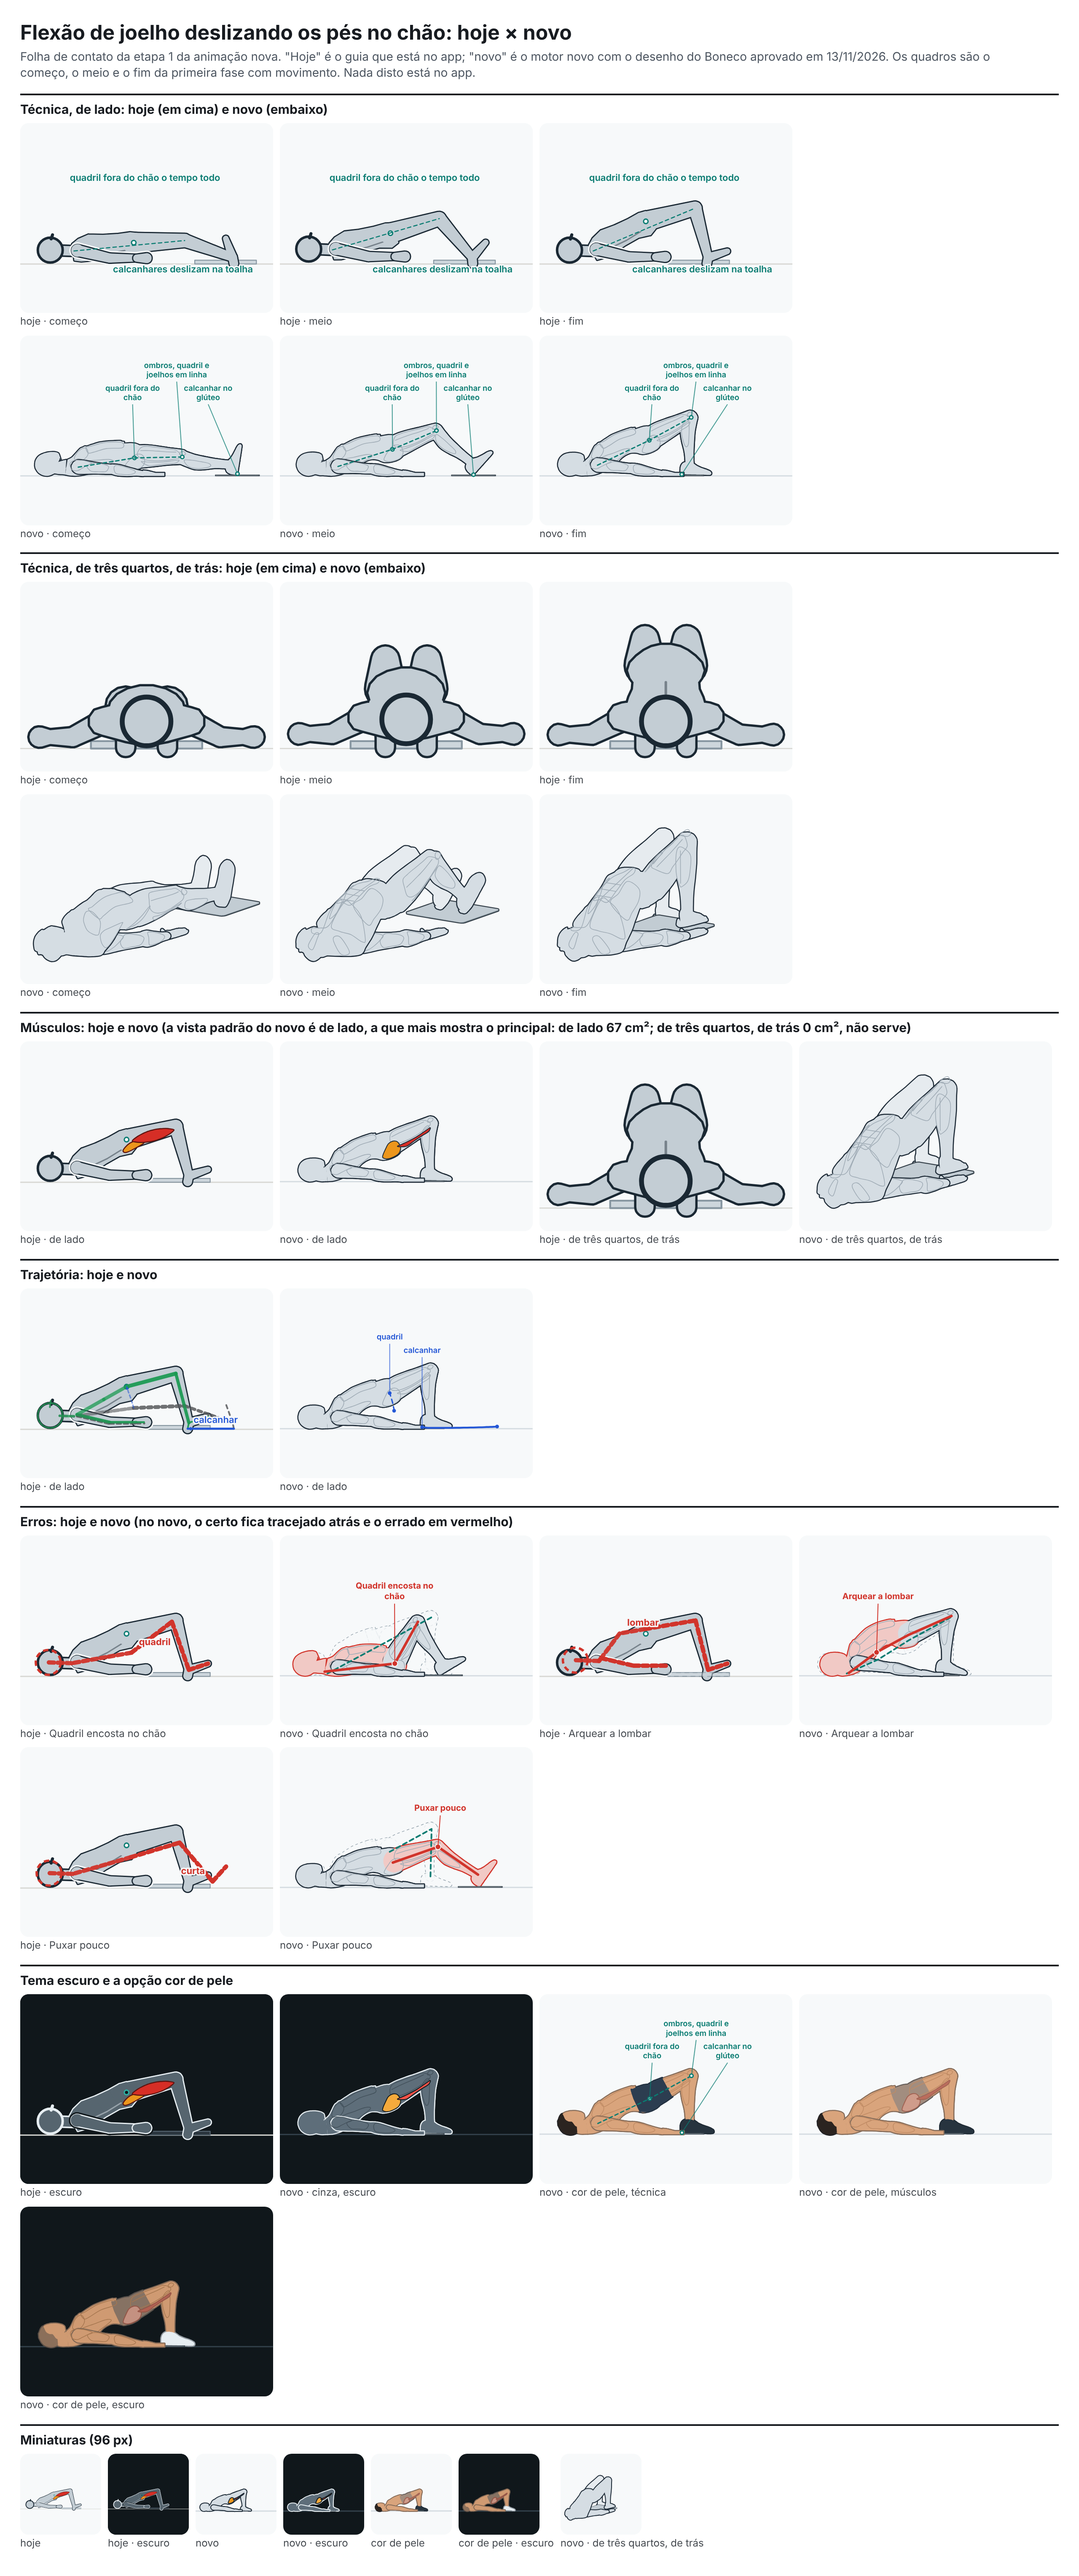
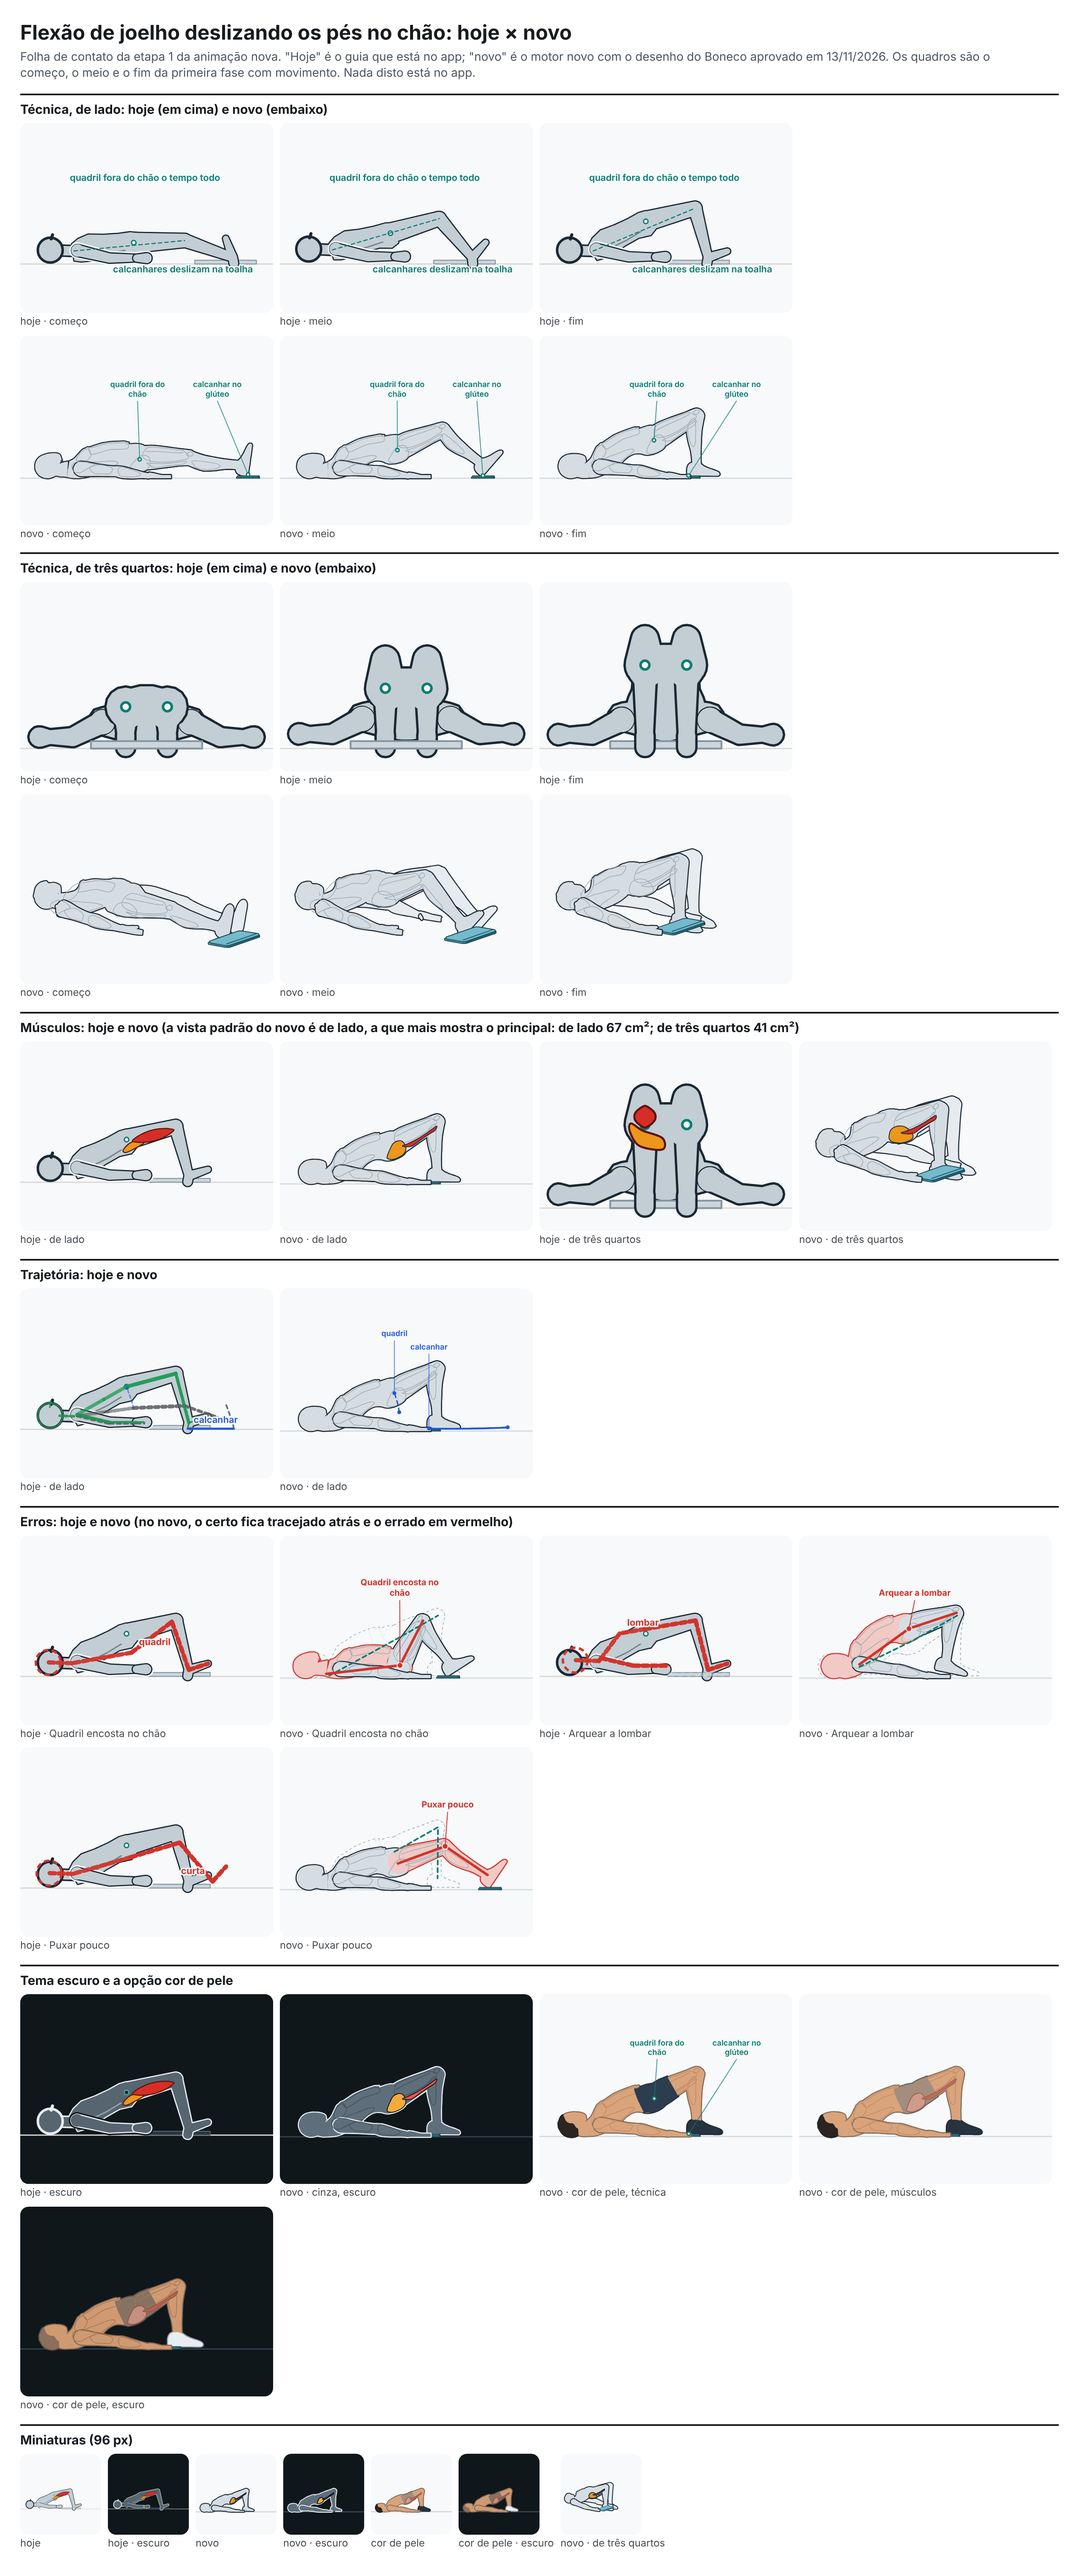
Correção: flexão de joelho deslizante vista de três quartos, com dois rótulos, o erro da lombar legível e a toalha dobrada em quatro
Claude-Session: https://claude.ai/code/session_01YRzts7dTzBdkrmTDEnq8bW

diff --git a/src/engine/novo/pecas-de-cena/toalha.ts b/src/engine/novo/pecas-de-cena/toalha.ts
@@ -1,21 +1,26 @@
-// A toalha de mão dobrada ao meio, sob os dois calcanhares, que desliza com eles no chão liso (flexão de joelho
-// deslizante). As medidas vêm de ../dados/objetos/toalha.json. Ela anda com os calcanhares: fica centrada debaixo deles.
+// A toalha de mão dobrada em quatro no comprimento, sob os dois calcanhares, que desliza com eles no chão liso
+// (flexão de joelho deslizante). As medidas vêm de ../dados/objetos/toalha.json. Ela anda com os calcanhares: fica
+// centrada debaixo deles. Dobrada em quatro, fica com a largura inteira (40,6 cm, os dois calcanhares cabem) e um
+// quarto do comprimento na direção em que desliza, com quatro camadas de felpa: de lado, ela tem espessura visível.
 import type { Prim } from '../desenho';
 import type { PecaPropria } from '../pecas';
 import { retArred } from '../realista/base.mjs';
 import { obj } from '../tabelas';
 import type { V3 } from '../vec';
 
-/** A cor da toalha (felpa clara, em quatro tons, do traço ao mais claro). */
-const FELPA = ['#55636B', '#8E9DA6', '#C9D3D9', '#36414A'];
+/** A cor da toalha: felpa azul-petróleo, em quatro tons (do traço ao mais claro), que se separa do chão cinza. */
+const FELPA = ['#1F5B6B', '#3C8BA0', '#7CC0D2', '#123C47'];
+/** Quantas camadas a toalha dobrada tem. */
+const CAMADAS = 4;
 
-/** Altura do tampo da toalha dobrada (duas camadas), em cm. */
-export const alturaDaToalha = () => 2 * obj('toalha', 'esp');
+/** Altura do tampo da toalha dobrada, em cm. */
+export const alturaDaToalha = () => CAMADAS * obj('toalha', 'esp');
 
 /** A toalha com o centro em (x, z) no chão: os volumes da conferência e a peça desenhada. */
 export function toalha(x: number, z: number): { prims: Prim[]; peca: PecaPropria } {
   const larg = obj('toalha', 'larg'),
-    comp = obj('toalha', 'comp') / 2,
+    comp = obj('toalha', 'comp') / CAMADAS,
+    e = obj('toalha', 'esp'),
     h = alturaDaToalha();
   const o: V3 = [x, h / 2, z];
   return {
@@ -26,9 +31,11 @@ export function toalha(x: number, z: number): { prims: Prim[]; peca: PecaPropria
       nome: 'toalha',
       fixa: [x, z],
       desenhar(C) {
-        // a dobra fica do lado da cabeça; um friso marca a barra da toalha do lado dos pés
-        C.prisma(retArred(larg, comp, 2.5, 3), [x, 0, z], [1, 0, 0], [0, 0, 1], [0, h, 0], FELPA);
-        C.linha([x - larg / 2 + 1.5, h + 0.05, z + comp / 2 - 3], [x + larg / 2 - 1.5, h + 0.05, z + comp / 2 - 3], FELPA[0], 0.5);
+        // as dobras: a metade de baixo (duas camadas) um pouco mais longa que a de cima, com a borda arredondada do
+        // tecido; um friso marca a barra na camada de cima
+        C.prisma(retArred(larg, comp, 2.5, 4), [x, 0, z], [1, 0, 0], [0, 0, 1], [0, 2 * e, 0], FELPA);
+        C.prisma(retArred(larg - 1, comp - 1.2, 2.5, 4), [x, 2 * e, z + 0.3], [1, 0, 0], [0, 0, 1], [0, 2 * e, 0], FELPA);
+        C.linha([x - larg / 2 + 2, h + 0.05, z + comp / 2 - 3], [x + larg / 2 - 2, h + 0.05, z + comp / 2 - 3], FELPA[0], 0.6);
       },
     },
   };

diff --git a/src/engine/novo/exercicios/flexao-joelho-deslizante.ts b/src/engine/novo/exercicios/flexao-joelho-deslizante.ts
@@ -42,9 +42,10 @@ function calibrar(corpo: Corpo) {
 function quadro(corpo: Corpo, u: number, erro?: string): Quadro {
   const c = calibrar(corpo);
   const v = erro === 'curta' ? u * f('erro.curta.fracao') : u;
-  // no erro da lombar, as costas ficam como no certo e a bacia gira o que a lombar arqueia: a barriga sobe
+  // no erro da lombar, a bacia fica na inclinação do certo e a lombar arqueia: as costas inclinam mais, a bacia sobe
+  // acima da linha ombro–joelho e a barriga vai para cima (o quadril estende para o calcanhar ficar na toalha)
   const lombar = erro === 'lombar' ? f('erro.lombar.lombar') * u : 0;
-  const frente = (erro === 'quadril' ? mix(c.ini, c.caido, u) : mix(c.ini, c.fim, v)) - lombar * 0.5;
+  const frente = erro === 'quadril' ? mix(c.ini, c.caido, u) : mix(c.ini, c.fim, v);
   const p = ponteDeCostas(corpo, opcoes(frente, mix(f('joelho.inicio'), f('joelho.fim'), v), lombar));
   const t = toalha(0, p.calcanhares[2]);
   return {
@@ -59,7 +60,7 @@ function quadro(corpo: Corpo, u: number, erro?: string): Quadro {
 
 export const flexaoJoelhoDeslizante: Exercicio = {
   ficha: F,
-  vistas: ['lateral', 'quinaTras'],
+  vistas: ['lateral', 'quina'],
   quadro,
   // posteriores da coxa (principal) e glúteo (secundário), como a biblioteca; a panturrilha fica fora (ficha da técnica)
   papeis: { posteriores: 'p', gluteo: 's' },

diff --git a/docs/revisoes/animacao-nova/lote-6/flexao-joelho-deslizante.md b/docs/revisoes/animacao-nova/lote-6/flexao-joelho-deslizante.md
@@ -6,7 +6,7 @@ De 15/11/2026. Primeira animação da família das flexões de joelho deitado. *
 - Ficha de movimento: `src/engine/novo/dados/movimentos/flexao-joelho-deslizante.json`.
 - Animação: `src/engine/novo/exercicios/flexao-joelho-deslizante.ts`, sobre o núcleo da família (`exercicios/flexao-joelho.ts`: `ponteDeCostas`, que a flexão na suspensão vai usar com o calcanhar no ar, preso na fita).
 - Regras medidas: `src/engine/novo/regras/flexao-joelho.ts`.
-- Peça nova: a toalha de mão dobrada ao meio (`pecas-de-cena/toalha.ts`), com as medidas em `dados/objetos/toalha.json` (16 × 30 pol, Zogics; a espessura é provisória).
+- Peça nova: a toalha de mão dobrada em quatro no comprimento (`pecas-de-cena/toalha.ts`), com as medidas em `dados/objetos/toalha.json` (16 × 30 pol, Zogics; a espessura de 0,5 cm por camada é provisória). Fica com 40,6 × 19 cm e 2 cm de altura, em azul-petróleo, para se separar do chão.
 - Folha ao lado da de hoje: `../prototipos/folha-flexao-joelho-deslizante.png`. Quadros grandes: `../quadros/flexao-joelho-deslizante.png`.
 
 ## Como a pose é montada
@@ -26,33 +26,36 @@ Deitado de costas, a cabeça para −z. A cada quadro: (1) a bacia inclina o que
 | Pé em ângulo reto com a canela (correção de 04/11) | consenso | dorsiflexão de 0° no ciclo inteiro: o pé apoia no calcanhar, com a ponta para cima | sim |
 | Puxada em ~1 s; volta em ~2–3 s | consenso | 1,2 s e 2,5 s, com 0,5 s parado no início e 0,6 s no fim | sim |
 
-Conferência automática: **0 falha, 2 avisos**. Amplitudes: joelho 120° (ok); quadril de 8,2° de extensão a 9,1° de flexão; cotovelo 19°; elevação do braço 32° (é o tronco que inclina, não o braço que sobe); ponto mais baixo do corpo −0,2 cm; ritmo 12,5% (ok). Os avisos:
+Conferência automática: **0 falha, 1 aviso**. Amplitudes: joelho 120° (ok); quadril de 8,2° de extensão a 9,1° de flexão; cotovelo 19°; elevação do braço 32° (é o tronco que inclina, não o braço que sobe); ponto mais baixo do corpo −0,2 cm; ritmo 12,5% (ok). Os avisos:
 
 1. Provisórios: `joelho.fim` (120°), `quadril.folgaNoInicio` (5 cm), `ombro.z`, `maos.abaixoDoOmbro`, `maos.paraFora`. Só os dois primeiros mudam a técnica; a ficha não dá número para eles.
-2. Músculos: de três quartos, de trás, o principal (posteriores) não aparece (0 cm²): a vista padrão do modo Músculos é a de lado (67 cm²).
+A vista de três quartos (`quina`) mostra o principal (41 cm²); a de lado é a padrão do modo Músculos (67 cm²).
 
 ## Erros
 
 | Erro (texto do app) | O que o boneco faz (medido) |
 |---|---|
 | Quadril encosta no chão | enquanto os calcanhares vêm, a bacia desce até o glúteo ficar a 0,3 cm do chão; no fim, ombro–quadril–joelho fazem 123° (177° no certo) |
-| Arquear a lombar | a lombar arqueia 25° e a bacia sobe 4 cm a mais que no certo (centro a 34,9 cm); a barriga sobe. A linha ombro–quadril–joelho, medida nos centros, ainda dá 175°: o erro se vê na curva das costas, não na linha |
+| Arquear a lombar | a lombar arqueia 15° com a bacia na inclinação do certo: a bacia sobe 9,5 cm a mais que no certo (centro a 40,7 cm) e sai da linha ombro–joelho (ombro–quadril–joelho a 163°, 177° no certo); a linha do erro passa por ombro, bacia e joelho, e a do certo, tracejada, fica reta |
 | Puxar pouco | o joelho para a 54° (120° no certo); o calcanhar fica 73 cm à frente do quadril |
 
 ## Correções já feitas que esta animação respeita (`correcoes-ja-feitas.md`)
 
-- 04/11: "toalha maior e centrada sob o calcanhar; pé em ângulo reto com a canela". Respeitada: a toalha tem a medida de uma toalha de mão (40,6 × 38,1 cm dobrada) e anda centrada sob os calcanhares; o pé fica a 0° de dorsiflexão.
+- 04/11: "toalha maior e centrada sob o calcanhar; pé em ângulo reto com a canela". Respeitada: a toalha tem a medida de uma toalha de mão (40,6 × 19 cm dobrada em quatro) e anda centrada sob os calcanhares; o pé fica a 0° de dorsiflexão.
 - A panturrilha fica fora do realce, como a ficha da técnica decidiu.
 
 ## Músculos e vistas
 
-O realçado bate com o conteúdo (principal: posteriores da coxa; secundário: glúteo). Os posteriores existem no desenho (`dados/musculos.json`, grupo `posteriores`). A vista de lado é a do modo Músculos; a de três quartos, de trás, fica para a Técnica (mostra a toalha e as duas pernas). A vista `quina` (de frente) não foi usada porque a folha ao lado da de hoje não sabe desenhar o guia de hoje nela.
+O realçado bate com o conteúdo (principal: posteriores da coxa; secundário: glúteo). Os posteriores existem no desenho (`dados/musculos.json`, grupo `posteriores`). A vista de lado é a do modo Músculos; a de três quartos (`quina`, como na flexão na bola) fica para a Técnica: mostra a toalha, as duas pernas e o corpo em ponte. Testei também `cima` (o corpo vira uma figura em pé, sem a ponte) e `quinaTras` (o corpo visto pela cabeça).
 
 ## O que não ficou bom
 
-- No fim, o calcanhar fica a uns 18 cm da pele do glúteo. Para chegar mais perto, o joelho teria de dobrar mais de 120° com o quadril estendido.
-- No erro da lombar, a linha ombro–quadril–joelho medida nos centros quase não muda (175°): o que aparece é a curva das costas e a barriga mais alta. Pode não ler como erro na miniatura.
-- O ombro anda 1,7 cm (sobe um pouco quando a bacia inclina): o limite da regra é 2 cm, escolha minha.
-- A toalha, de lado, é só uma linha fina; de três quartos ela aparece, mas sem as dobras do tecido (é uma placa com a borda arredondada e um friso).
-- A rótulo "ombros, quadril e joelhos em linha" aparece já no início, quando o corpo ainda não está em linha (a linha-guia mostra o ângulo); o texto vale para o fim.
-- A espessura da toalha (0,4 cm por camada) é provisória.
+- No fim, o calcanhar fica a uns 18 cm da pele do glúteo (28,5 cm à frente do centro do quadril). Tentei 130° de joelho: o calcanhar chega a 21 cm do centro do quadril, mas a conta da coxa dá um salto de velocidade no joelho (30% do pico, falha de ritmo); voltei a 120°.
+- O ombro anda 1,8 cm (sobe um pouco quando a bacia inclina): o limite da regra é 2 cm, escolha minha.
+
+## Correção de 15/11/2026 (pedido de quem integra)
+
+- Segunda vista: `quinaTras` → `quina`.
+- Rótulos: três → dois ("quadril fora do chão", "calcanhar no glúteo"); saiu "ombros, quadril e joelhos em linha", que aparecia no começo, quando o corpo ainda não está em linha (a regra `em-linha-no-fim` continua medindo).
+- Erro da lombar: refeito como descrito na tabela de erros.
+- Toalha: dobrada em quatro (2 cm de altura), em azul-petróleo, com as duas metades da dobra desenhadas.
